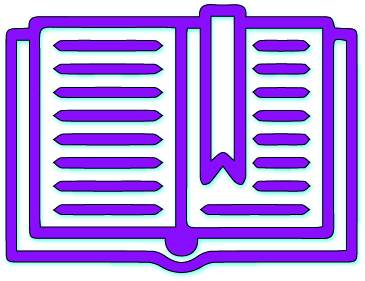
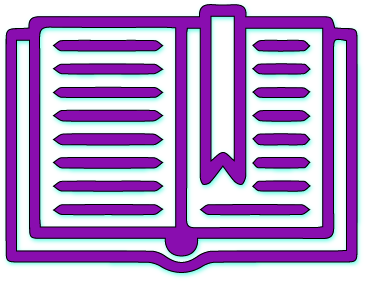
Fixes articleIcon3

diff --git a/website/myAccolades/index.html b/website/myAccolades/index.html
@@ -41,7 +41,7 @@
         </td>
         <td>
           <a href="https://wsprung.github.io/whitneysArchive/website/myWork/Reflections/PressFitReflection.html" id = "articleIcon2">
-            <img src = "https://wsprung.github.io/whitneysArchive/website/assets/articleIcon2.png">
+            <img src = "https://wsprung.github.io/whitneysArchive/website/assets/articleIcon3.png">
          </a>
         </td>
         <td>
